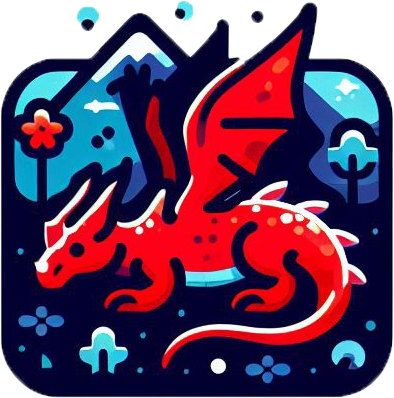
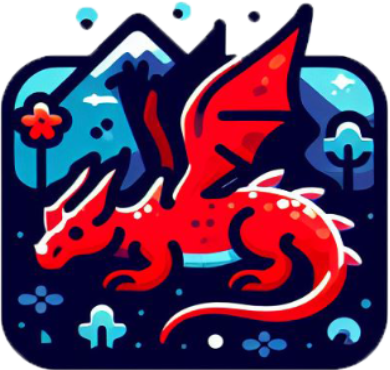
images resize + inclues dans inscription

diff --git a/css/subscription.css b/css/subscription.css
@@ -59,3 +59,13 @@ input{
 .droit{
 	display: flex;
 }
+
+.picture{
+	display: flex;
+    flex-direction: column;
+    align-items: center;
+    border-radius: 2vh;
+    padding: 10px;
+	width: 20vw;
+
+}

diff --git a/subscription.php b/subscription.php
@@ -37,7 +37,7 @@ if(isset($_SESSION['password']) AND isset($_SESSION['user'])){
 								<input type="radio" name="typeAbonnement" class="radioCache" value="1" id="radio1" checked>
 
 								<label class="abonnement" for="radio1">
-									<img class="profilPicture" src="img/<?php echo $idcontact."/".$Contact['ProfilPictureFile'];?>">
+									<img class="picture" src="img/DragonNiv1.png<?php echo $idcontact.$Contact['ProfilPictureFile'];?>">
 									<h3>1 mois</h3>
 									<div>8.99 €</div>
 									<div>soit 8.99 €/mois</div>
@@ -47,7 +47,7 @@ if(isset($_SESSION['password']) AND isset($_SESSION['user'])){
 								<input type="radio" name="typeAbonnement" class="radioCache" value="6" id="radio6">
 
 								<label class="abonnement" for="radio6">
-									<img class="profilPicture" src="img/<?php echo $idcontact."/".$Contact['ProfilPictureFile'];?>">
+									<img class="picture" src="img/DragonNiv2.png<?php echo $idcontact.$Contact['ProfilPictureFile'];?>">
 									<h3>6 mois</h3>
 									<div>42,99 €</div>
 									<div>soit 7.17 €/mois</div>
@@ -57,7 +57,7 @@ if(isset($_SESSION['password']) AND isset($_SESSION['user'])){
 								<input type="radio" name="typeAbonnement" class="radioCache" value="12" id="radio12">
 
 								<label class="abonnement" for="radio12">
-									<img class="profilPicture" src="img/<?php echo $idcontact."/".$Contact['ProfilPictureFile'];?>">
+									<img class="picture" src="img/DragonNiv3.png<?php echo $idcontact.$Contact['ProfilPictureFile'];?>">
 									<h3>12 mois</h3>
 									<div>74.99 €</div>
 									<div>soit 6.25 €/mois</div>
